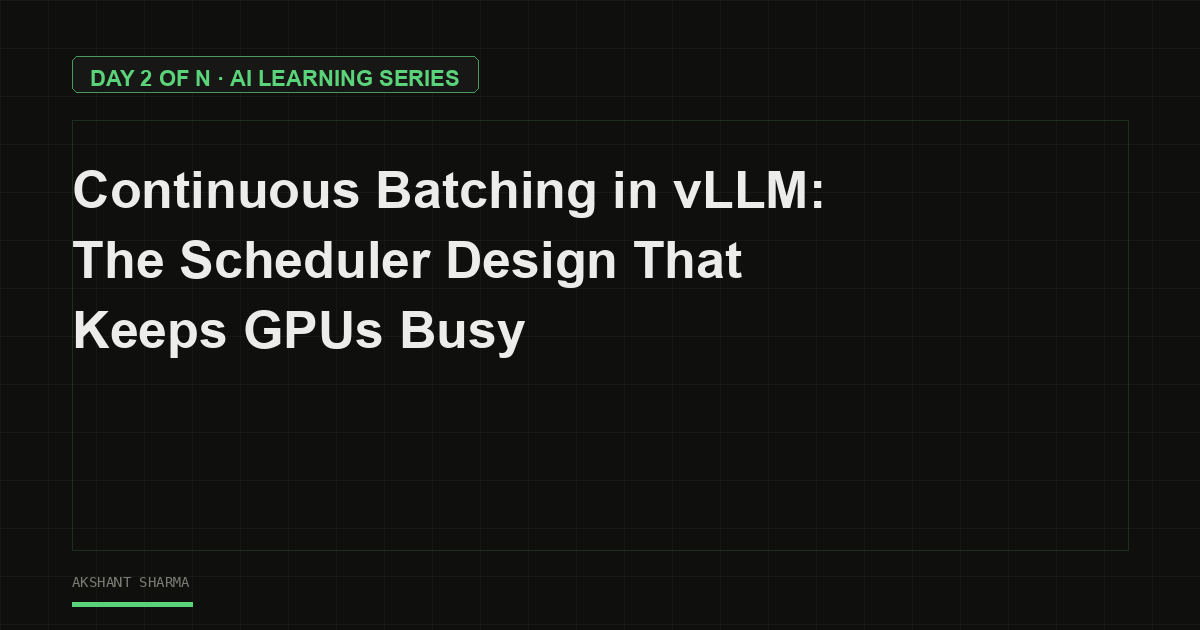
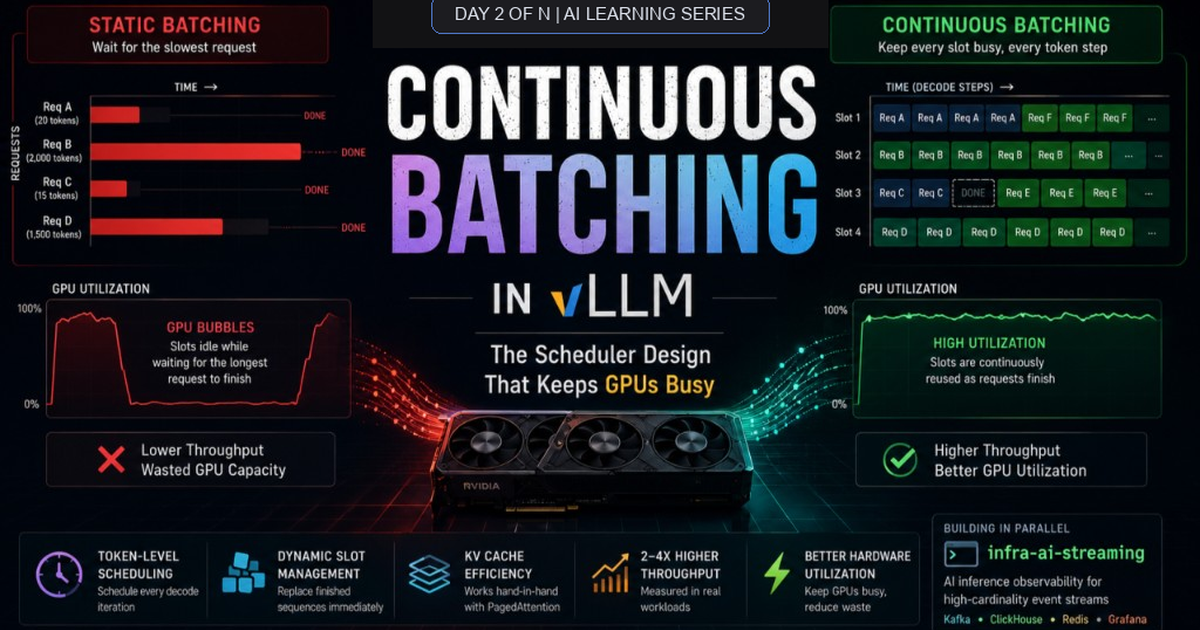
feat(blog): rich infographic covers with X of N badges
Replace plain grid covers with user infographic art (badge-corrected)
and AI-generated rich covers for posts without source art. Script
defaults to --rich; --plain kept deprecated.

diff --git a/scripts/generate_blog_covers.py b/scripts/generate_blog_covers.py
@@ -1,7 +1,16 @@
 #!/usr/bin/env python3
-"""Generate 1200x630 blog cover PNGs (covers + og)."""
+"""Generate 1200×630 blog cover PNGs (covers/ + og/).
+
+Modes:
+  --rich (default)  Copy user infographic art (with badge fixes) or pre-generated rich PNGs.
+  --plain           Deprecated: dark grid + plain text (avoid for published posts).
+
+User art lives outside the repo; set PROFILE_COVER_ASSETS to override the default path.
+Rich AI-generated PNGs for posts without user art: scripts/cover_assets_rich/ (committed).
+"""
 from __future__ import annotations
 
+import argparse
 import shutil
 from pathlib import Path
 
@@ -10,10 +19,47 @@ from PIL import Image, ImageDraw, ImageFont
 ROOT = Path(__file__).resolve().parents[1]
 COVERS_DIR = ROOT / "blog" / "assets" / "covers"
 OG_DIR = ROOT / "blog" / "assets" / "og"
+SCRIPT_DIR = Path(__file__).resolve().parent
+RICH_GENERATED_DIR = SCRIPT_DIR / "cover_assets_rich"
+
+DEFAULT_ASSETS = Path(
+    "/Users/akshant/.cursor/projects/Users-akshant-Desktop-github-Profile/assets"
+)
+
 W, H = 1200, 630
 
-# slug, badge, title, accent (r,g,b)
-SPECS = [
+# slug → (source filename under assets dir, new badge text)
+USER_ART: dict[str, tuple[str, str]] = {
+    "day-1-kv-cache-memory-bandwidth": (
+        "image-867abcea-3cc1-4eb4-bdaf-3b68e8c15f3a.png",
+        "DAY 1 OF N",
+    ),
+    "day-2-continuous-batching-vllm": (
+        "image-93553678-49bb-4ff3-8e77-8d51800cd048.png",
+        "DAY 2 OF N",
+    ),
+    "when-percentiles-lie-cross-tier-queries": (
+        "image-4fab7b85-37ca-479b-995c-6b2732134a0e.png",
+        "EXPERIENCE 2 OF N",
+    ),
+    "seven-million-iot-sensors-failure-modes": (
+        "image-d0c044a3-cbb9-43bf-8b90-31f83b07c948.png",
+        "EXPERIENCE 3 OF N",
+    ),
+}
+
+# slug → filename under cover_assets_rich/ (or DEFAULT_ASSETS before first commit)
+RICH_GENERATED: dict[str, str] = {
+    "day-0-series-roadmap": "day-0-series-roadmap.png",
+    "day-3-token-budgets-cost-structure": "day-3-token-budgets-cost-structure.png",
+    "building-tsdb-at-agoda": "building-tsdb-at-agoda.png",
+    "building-ai-inference-observability": "building-ai-inference-observability.png",
+}
+
+ALL_SLUGS = list(USER_ART) + list(RICH_GENERATED)
+
+# Deprecated plain-text specs ( --plain only )
+PLAIN_SPECS = [
     (
         "day-0-series-roadmap",
         "DAY 0 OF N · AI LEARNING SERIES",
@@ -65,31 +111,160 @@ SPECS = [
 ]
 
 
-def _fonts():
+def _font(size: int, bold: bool = True) -> ImageFont.FreeTypeFont | ImageFont.ImageFont:
     candidates = [
         "/System/Library/Fonts/Supplemental/Arial Bold.ttf",
-        "/System/Library/Fonts/Helvetica.ttc",
         "/Library/Fonts/Arial Bold.ttf",
+        "/System/Library/Fonts/Helvetica.ttc",
     ]
-    mono_candidates = [
-        "/System/Library/Fonts/Menlo.ttc",
-        "/System/Library/Fonts/SFNSMono.ttf",
-    ]
-    title = badge = None
+    if not bold:
+        candidates = [
+            "/System/Library/Fonts/Supplemental/Arial.ttf",
+            "/Library/Fonts/Arial.ttf",
+        ] + candidates
     for p in candidates:
         if Path(p).exists():
-            title = ImageFont.truetype(p, 52)
-            badge = ImageFont.truetype(p, 22)
-            break
-    mono = None
-    for p in mono_candidates:
-        if Path(p).exists():
-            mono = ImageFont.truetype(p, 14)
-            break
-    if title is None:
-        title = ImageFont.load_default()
-        badge = title
-        mono = title
+            return ImageFont.truetype(p, size)
+    return ImageFont.load_default()
+
+
+def resize_cover(img: Image.Image) -> Image.Image:
+    """Center-crop scale to exactly W×H."""
+    img = img.convert("RGB")
+    scale = max(W / img.width, H / img.height)
+    nw, nh = int(img.width * scale), int(img.height * scale)
+    img = img.resize((nw, nh), Image.Resampling.LANCZOS)
+    left = (nw - W) // 2
+    top = (nh - H) // 2
+    return img.crop((left, top, left + W, top + H))
+
+
+def _patch_badge_day1(img: Image.Image, badge: str) -> Image.Image:
+    """Yellow brush badge, upper-left."""
+    draw = ImageDraw.Draw(img)
+    # Cover old "DAY 1 OF 30" brush (~1024×575 source coords)
+    draw.rectangle([8, 6, 268, 98], fill=(8, 14, 28))
+    # Brush stroke
+    draw.rounded_rectangle([18, 18, 248, 82], radius=14, fill=(245, 200, 35))
+    font = _font(26)
+    draw.text((36, 34), badge, fill=(12, 12, 12), font=font)
+    return img
+
+
+def _patch_badge_day2(img: Image.Image, badge: str) -> Image.Image:
+    """Center-top dark pill."""
+    draw = ImageDraw.Draw(img)
+    draw.rectangle([318, 4, 706, 58], fill=(18, 18, 20))
+    label = f"{badge} | AI LEARNING SERIES"
+    font = _font(15, bold=False)
+    bbox = draw.textbbox((0, 0), label, font=font)
+    tw = bbox[2] - bbox[0]
+    px = (img.width - tw) // 2 - 20
+    py = 14
+    draw.rounded_rectangle(
+        [px, py, px + tw + 40, py + 32],
+        radius=8,
+        fill=(28, 28, 32),
+        outline=(80, 120, 200),
+        width=1,
+    )
+    draw.text((px + 20, py + 7), label, fill=(220, 225, 235), font=font)
+    return img
+
+
+def _patch_badge_experience_pill(
+    img: Image.Image,
+    badge: str,
+    *,
+    box: tuple[int, int, int, int],
+    accent: tuple[int, int, int],
+    bg: tuple[int, int, int] = (16, 18, 22),
+) -> Image.Image:
+    draw = ImageDraw.Draw(img)
+    x0, y0, x1, y1 = box
+    draw.rectangle([x0 - 4, y0 - 4, x1 + 80, y1 + 4], fill=bg)
+    font = _font(14, bold=False)
+    pad_x, pad_y = 12, 6
+    bbox = draw.textbbox((0, 0), badge, font=font)
+    tw, th = bbox[2] - bbox[0], bbox[3] - bbox[1]
+    px, py = x0, y0
+    draw.rounded_rectangle(
+        [px, py, px + tw + pad_x * 2, py + th + pad_y * 2],
+        radius=6,
+        fill=(22, 24, 30),
+        outline=accent,
+        width=2,
+    )
+    draw.text((px + pad_x, py + pad_y), badge, fill=accent, font=font)
+    return img
+
+
+def fix_badge(slug: str, img: Image.Image, badge: str) -> Image.Image:
+    if slug == "day-1-kv-cache-memory-bandwidth":
+        return _patch_badge_day1(img, badge)
+    if slug == "day-2-continuous-batching-vllm":
+        return _patch_badge_day2(img, badge)
+    if slug == "when-percentiles-lie-cross-tier-queries":
+        return _patch_badge_experience_pill(
+            img, badge, box=(12, 52, 120, 88), accent=(100, 180, 255)
+        )
+    if slug == "seven-million-iot-sensors-failure-modes":
+        return _patch_badge_experience_pill(
+            img, badge, box=(198, 18, 310, 52), accent=(0, 210, 230), bg=(10, 12, 16)
+        )
+    return img
+
+
+def write_cover(slug: str, img: Image.Image) -> None:
+    COVERS_DIR.mkdir(parents=True, exist_ok=True)
+    OG_DIR.mkdir(parents=True, exist_ok=True)
+    out = resize_cover(img)
+    cover_path = COVERS_DIR / f"{slug}.png"
+    out.save(cover_path, "PNG", optimize=True)
+    shutil.copy2(cover_path, OG_DIR / f"{slug}.png")
+    print(f"  ✓ {slug}.png  ({out.size[0]}×{out.size[1]})")
+
+
+def process_user_art(assets_dir: Path, slug: str, filename: str, badge: str) -> None:
+    src = assets_dir / filename
+    if not src.exists():
+        raise FileNotFoundError(f"User art missing: {src}")
+    img = Image.open(src).convert("RGB")
+    img = fix_badge(slug, img, badge)
+    write_cover(slug, img)
+
+
+def process_rich_generated(slug: str, filename: str) -> None:
+    for base in (RICH_GENERATED_DIR, DEFAULT_ASSETS):
+        src = base / filename
+        if src.exists():
+            write_cover(slug, Image.open(src))
+            return
+    raise FileNotFoundError(
+        f"No rich cover for {slug}: expected {RICH_GENERATED_DIR / filename}"
+    )
+
+
+def run_rich(assets_dir: Path, slugs: list[str] | None = None) -> None:
+    targets = slugs or ALL_SLUGS
+    print("Rich infographic covers → blog/assets/{covers,og}/")
+    for slug in targets:
+        if slug in USER_ART:
+            fname, badge = USER_ART[slug]
+            process_user_art(assets_dir, slug, fname, badge)
+        elif slug in RICH_GENERATED:
+            process_rich_generated(slug, RICH_GENERATED[slug])
+        else:
+            print(f"  ? unknown slug: {slug}")
+
+
+# --- Deprecated plain generator ---
+
+
+def _plain_fonts():
+    title = _font(52)
+    badge = _font(22)
+    mono = _font(14, bold=False)
     return title, badge, mono
 
 
@@ -101,14 +276,11 @@ def draw_grid(draw: ImageDraw.ImageDraw, accent: tuple[int, int, int]) -> None:
     draw.rectangle([72, 120, W - 72, H - 80], outline=(*accent, 40), width=1)
 
 
-def render(slug: str, badge: str, title: str, accent: tuple[int, int, int]) -> None:
+def render_plain(slug: str, badge: str, title: str, accent: tuple[int, int, int]) -> None:
     img = Image.new("RGB", (W, H), (15, 15, 14))
     draw = ImageDraw.Draw(img, "RGBA")
     draw_grid(draw, accent)
-
-    title_font, badge_font, mono_font = _fonts()
-
-    # badge pill
+    title_font, badge_font, mono_font = _plain_fonts()
     badge_upper = badge.upper()
     bbox = draw.textbbox((0, 0), badge_upper, font=badge_font)
     tw, th = bbox[2] - bbox[0], bbox[3] - bbox[1]
@@ -122,30 +294,48 @@ def render(slug: str, badge: str, title: str, accent: tuple[int, int, int]) -> N
         width=1,
     )
     draw.text((px + pad_x, py + pad_y), badge_upper, fill=accent, font=badge_font)
-
-    # title
     y = 160
     for line in title.split("\n"):
         draw.text((72, y), line, fill=(236, 236, 234), font=title_font)
         bbox = draw.textbbox((72, y), line, font=title_font)
         y = bbox[3] + 12
-
     draw.text((72, H - 56), "AKSHANT SHARMA", fill=(124, 124, 116), font=mono_font)
-
-    # accent bar
     draw.rectangle([72, H - 28, 72 + 120, H - 24], fill=accent)
+    write_cover(slug, img)
 
-    out = COVERS_DIR / f"{slug}.png"
-    img.save(out, "PNG", optimize=True)
-    shutil.copy2(out, OG_DIR / f"{slug}.png")
-    print(f"  {slug}.png  badge={badge_upper}")
+
+def run_plain() -> None:
+    print("WARNING: --plain generates boring grid covers. Prefer --rich.")
+    for spec in PLAIN_SPECS:
+        render_plain(*spec)
 
 
 def main() -> None:
-    COVERS_DIR.mkdir(parents=True, exist_ok=True)
-    OG_DIR.mkdir(parents=True, exist_ok=True)
-    for spec in SPECS:
-        render(*spec)
+    parser = argparse.ArgumentParser(description=__doc__)
+    parser.add_argument(
+        "--plain",
+        action="store_true",
+        help="Deprecated dark-grid text-only covers (default is --rich)",
+    )
+    parser.add_argument(
+        "--assets",
+        type=Path,
+        default=None,
+        help="Directory with user infographic PNGs (default: PROFILE_COVER_ASSETS or cursor assets)",
+    )
+    parser.add_argument("--slug", action="append", dest="slugs", help="Only process these slugs")
+    args = parser.parse_args()
+
+    import os
+
+    assets_dir = args.assets or Path(
+        os.environ.get("PROFILE_COVER_ASSETS", DEFAULT_ASSETS)
+    )
+
+    if args.plain:
+        run_plain()
+    else:
+        run_rich(assets_dir, args.slugs)
 
 
 if __name__ == "__main__":
